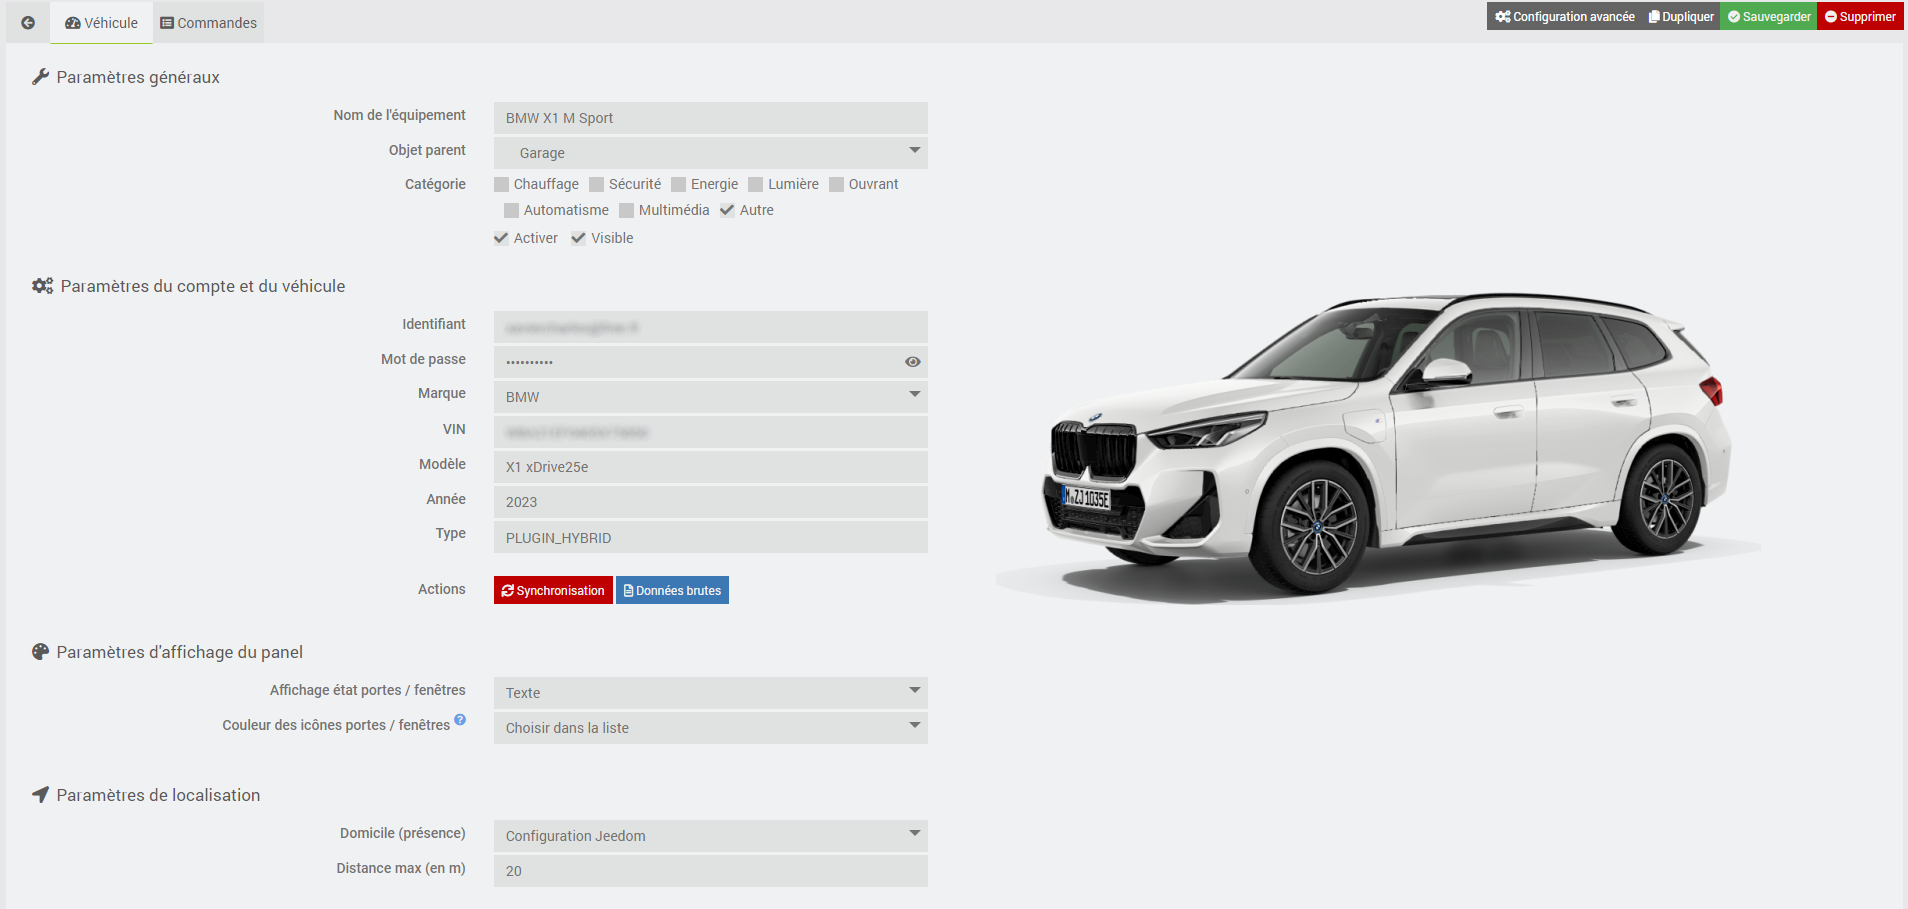
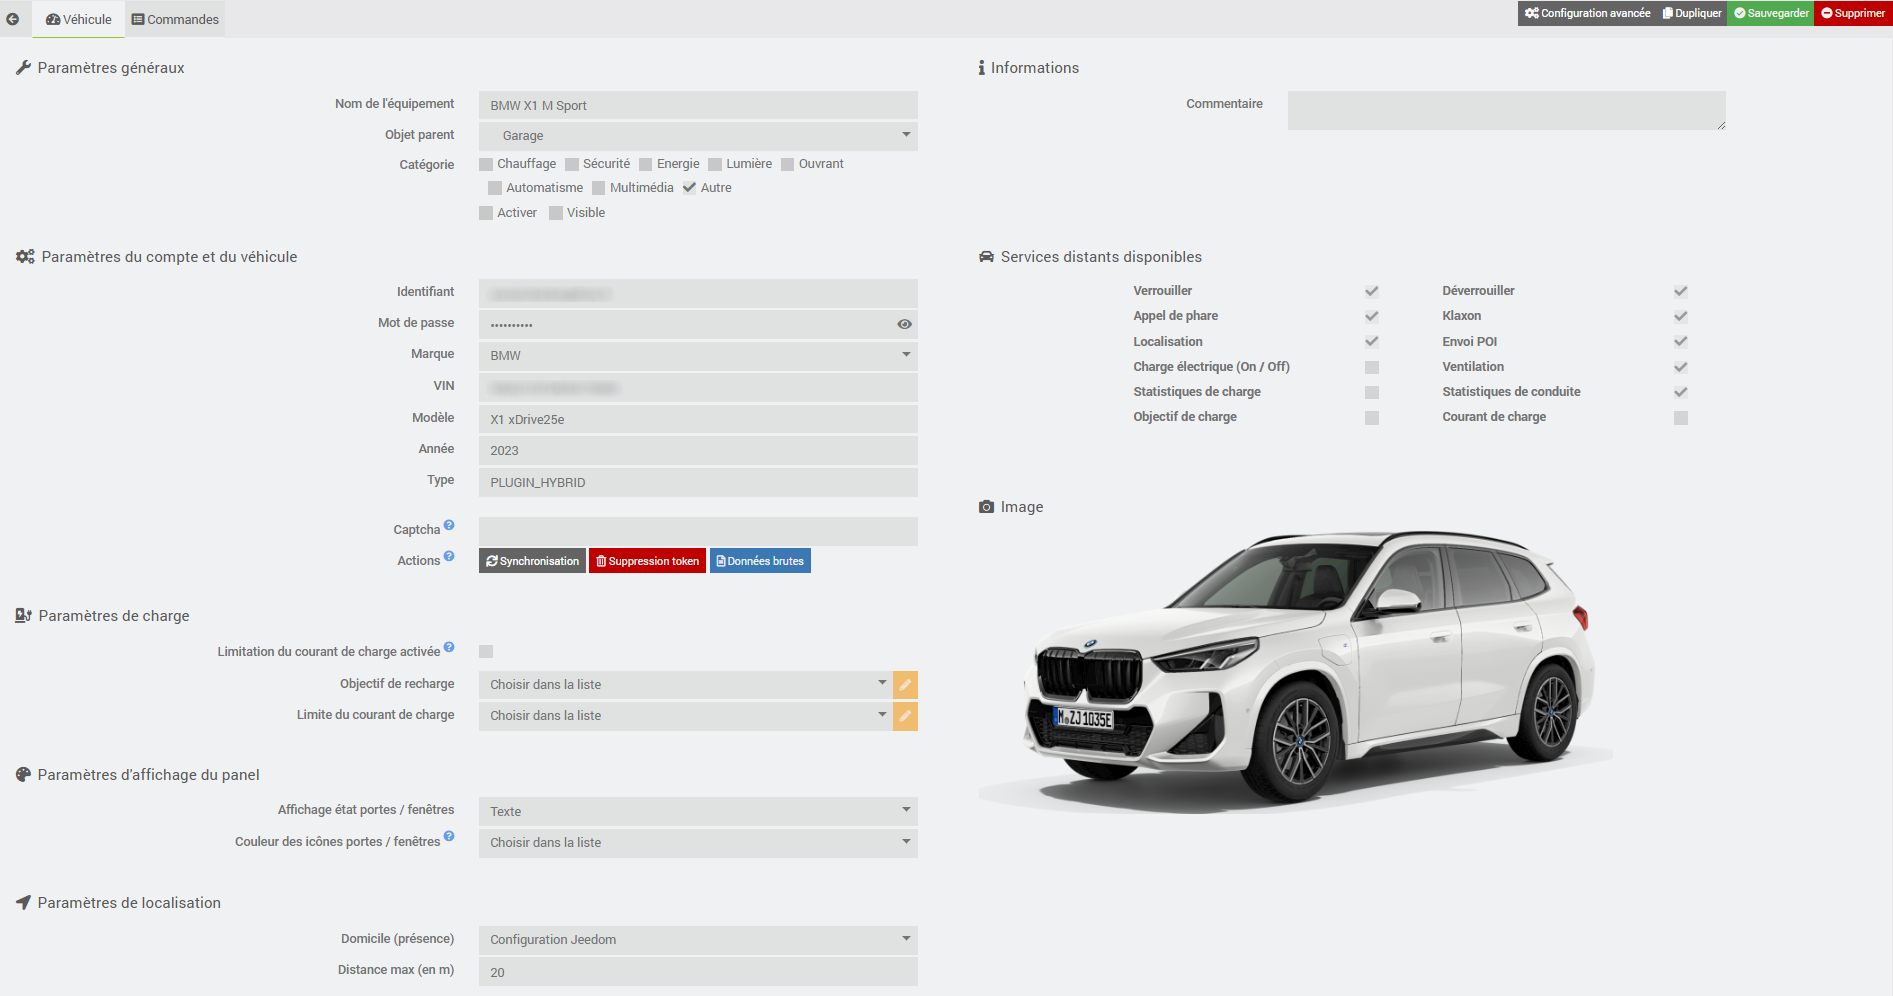
Update myBMW docs

diff --git a/myBMW/fr_FR/index.md b/myBMW/fr_FR/index.md
@@ -49,6 +49,7 @@ Cliquez sur la commande Ajouter pour créer un nouveau véhicule. Une fois ajout
 -   **Mot de passe** : indiquez votre mot de passe
 -   **Marque** : indiquez la marque de votre véhicule (BMW ou Mini)
 -   **VIN** : indiquez le numéro VIN ou Vehicle Identification Number (Numéro d’identification du véhicule). Vous pouvez retrouver ce numéro en case E de votre carte grise. Ce numéro est composé de 17 caractères.
+-   **Paramètres de charge** : si votre véhicule électrique ou hybride rechargeable le permet, vous pouvez modifier l'objectif de recharge (en %) ainsi que la limite de courant de charge (en A).
 -   **Affichage état portes / fenêtres** : vous avez le choix entre 2 options pour l'affichage de l'état des portes et des fenêtres sur le panel : le mode texte ou le mode icône.
 -   **Couleur des icônes portes / fenêtres** : si vous avez choisi le mode icône, vous pouvez également décider de la couleur des icônes (vert ou noir & blanc).
 -   **Domicile (présence)** : vous disposez de 3 possibilités pour indiquer les coordonnées GPS de votre domicile : soit en utilisant les coordonnées renseignées dans Jeedom, soit en utilisant les coordonnées actuelles du véhicule, soit en renseignant manuellement la latitude et la longitude.
@@ -195,6 +196,8 @@ Il existe actuellement plusieurs commandes qui sont décrites ci-dessous.
 -   **Charge électrique totale** : donne la charge électrique totale utilisée sur le mois en cours (uniquement sur véhicule électrique ou hybride)
 -   **Coût électrique total** : donne le coût mensuel des charges électriques
 -   **Objectif de recharge** : donne l'objectif de recharge électrique configuré pour le véhicule (en %)
+-   **Limite courant de charge** : donne la limite du courant de charge utilisé lorsque le véhicule est branché
+-   **Limitation du courant de charge** : donne l'information du statut de l'activation ou non d'une limite du courant de charge sur le véhicule
 -   **Coordonnées GPS** : remonte la position du véhicule sour la forme "latitude,longitude"
 -   **Dernière mise à jour** : donne la date et l'heure de la dernière connexion entre la voiture et les serveurs BMW
 -   **Statut Déverrouiller** : renvoie le dernier statut recu lors d'une demande de déverrouillage. Si l'action a correctement été effectuée, le statut passe à de "PENDING" à "EXECUTED". Sinon renvoie "ERROR"

diff --git a/myBMW/fr_FR/changelog.md b/myBMW/fr_FR/changelog.md
@@ -12,6 +12,22 @@ pluginId: myBMW
 **Remarque** : en cas de mise à jour non listée ici, c'est que celle-ci ne comporte que des changements mineurs du type documentation ou corrections de bugs mineurs.
 
 
+# 2025-09-12
+
+Ajout des fonctions suivantes :
+ - Possibilité de configurer l'objectif de recharge et la limite de courant de charge pour les véhicules électriques et hybrides rechargeables compatibles
+ - Ajout des commandes info correspondantes
+ - Génération d’un x_user_agent générique et spécifique à la machine pour éviter les erreurs 403 (Out of call volume quota)
+ - Ajout d'un refresh automatique pour une récupération immédiate des infos après une synchronisation du véhicule ou après utilisation d'un service distant le nécessitant 
+
+**ATTENTION** La prise en compte de ces nouvelles fonctionnalités nécessite une nouvelle synchronisation de tous vos véhicules (sans captcha)
+
+Corrections suivantes :
+ - Optimisation du code
+ - Page de configuration : bugfix de la fonction save auto avant une synchronisation ou une modification de paramètres
+ - Page de configuration : bugfix de la suppression automatique du captcha après une synchronisation
+
+
 # 2025-05-20
 
 Ajout des fonctions suivantes :
